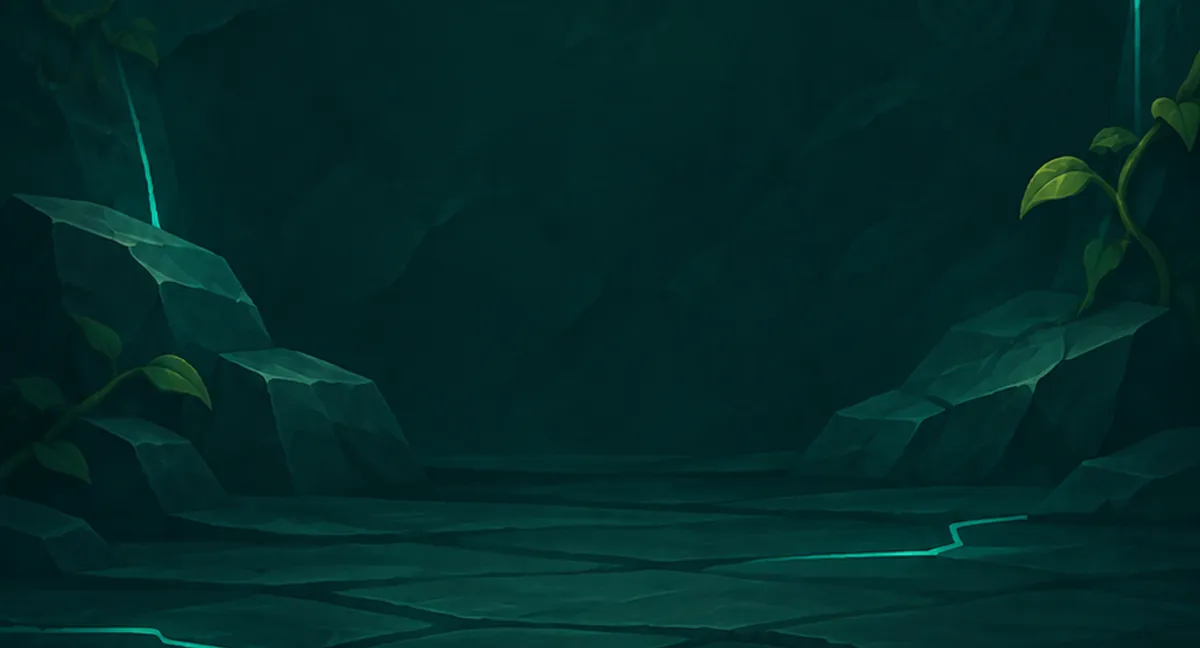
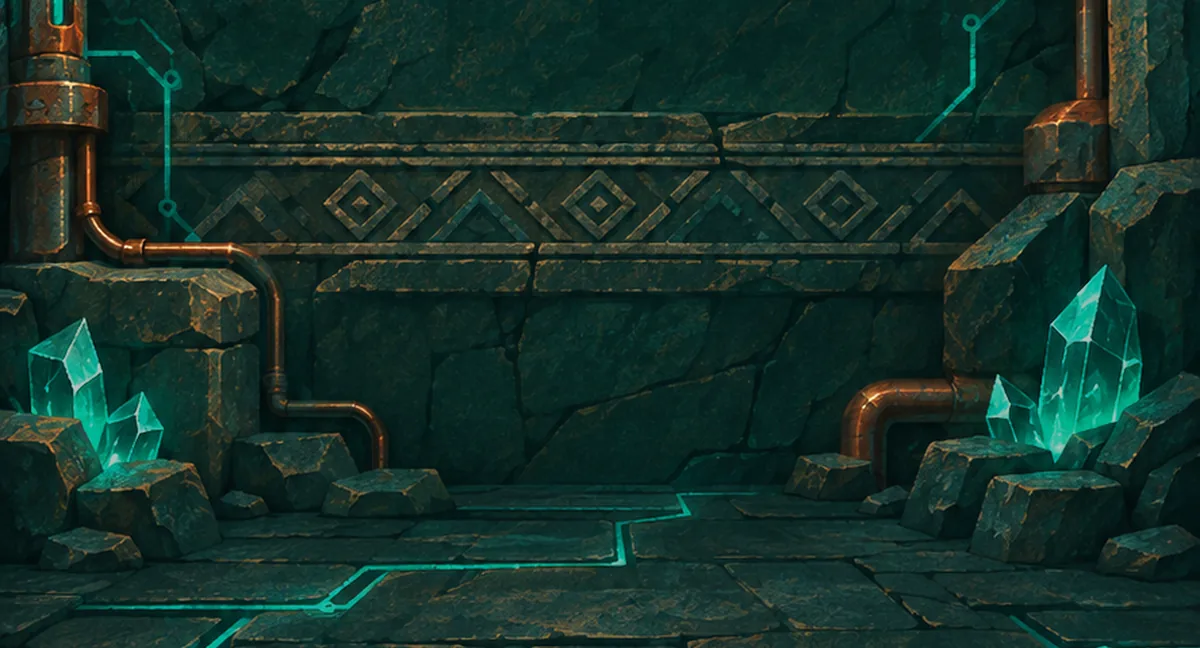
feat(arte): fundo do Fundador refeito (pedra rachada, cobre, circuitos turquesa) (P6)
Substitui backgrounds/founder-fundo.webp (mesma chave, 1200x648, recorte paisagem da arte vertical aprovada; chao a ~74%). Consumidores inalterados.

diff --git a/docs/INVENTARIO-ASSETS.md b/docs/INVENTARIO-ASSETS.md
@@ -523,3 +523,6 @@ Notas: a cota do ChatGPT foi atingida em 23/11 (retoma ao liberar); arquivo novo
 
 ## P6 — moldura cristal: borda A (24/11/2026)
 `ui/moldura-cristal/popup-cristal-1024.webp` substituída (mesmas dimensões 1024², `border-image-slice` 225): as 4 quinas ficam idênticas e os lados longos viram a faixa turquesa lisa fina (20 px nativos), sem fio de bronze (escolha do dono, 24/11). A tubulação de cobre das quinas esmaece organicamente depois do colar. Original/guarda: `E:\Soulmon-assets\p6-popup-cristal\final\popup-cristal-1024.png`; nova: `...\propostas-v2\popup-cristal-A-final-1024.png`.
+
+## P6 — fundo do Fundador refeito (24/11/2026)
+`backgrounds/founder-fundo.webp` (mesma chave/nome, 1200×648, 76 KB) substituído pelo fundo novo B do dono (parede de pedra rachada, tubos de cobre, frisos, circuitos turquesa acesos e cristais; inspirado nos painéis da intro): recorte PAISAGEM da arte vertical aprovada, com o topo do chão a ~74% da caixa (GROUND_Y) — o consumidor (`fundadorCatalogo.ts` cenário `center bottom / cover` e o thumbnail 200×120 do `FundadorAvisoModal`) fica igual. Versão VERTICAL 720×1440 e a variante A (sem luz) alinhada ficam em `E:\Soulmon-assets\p6-founder-bg\` (sem consumidor ainda).
